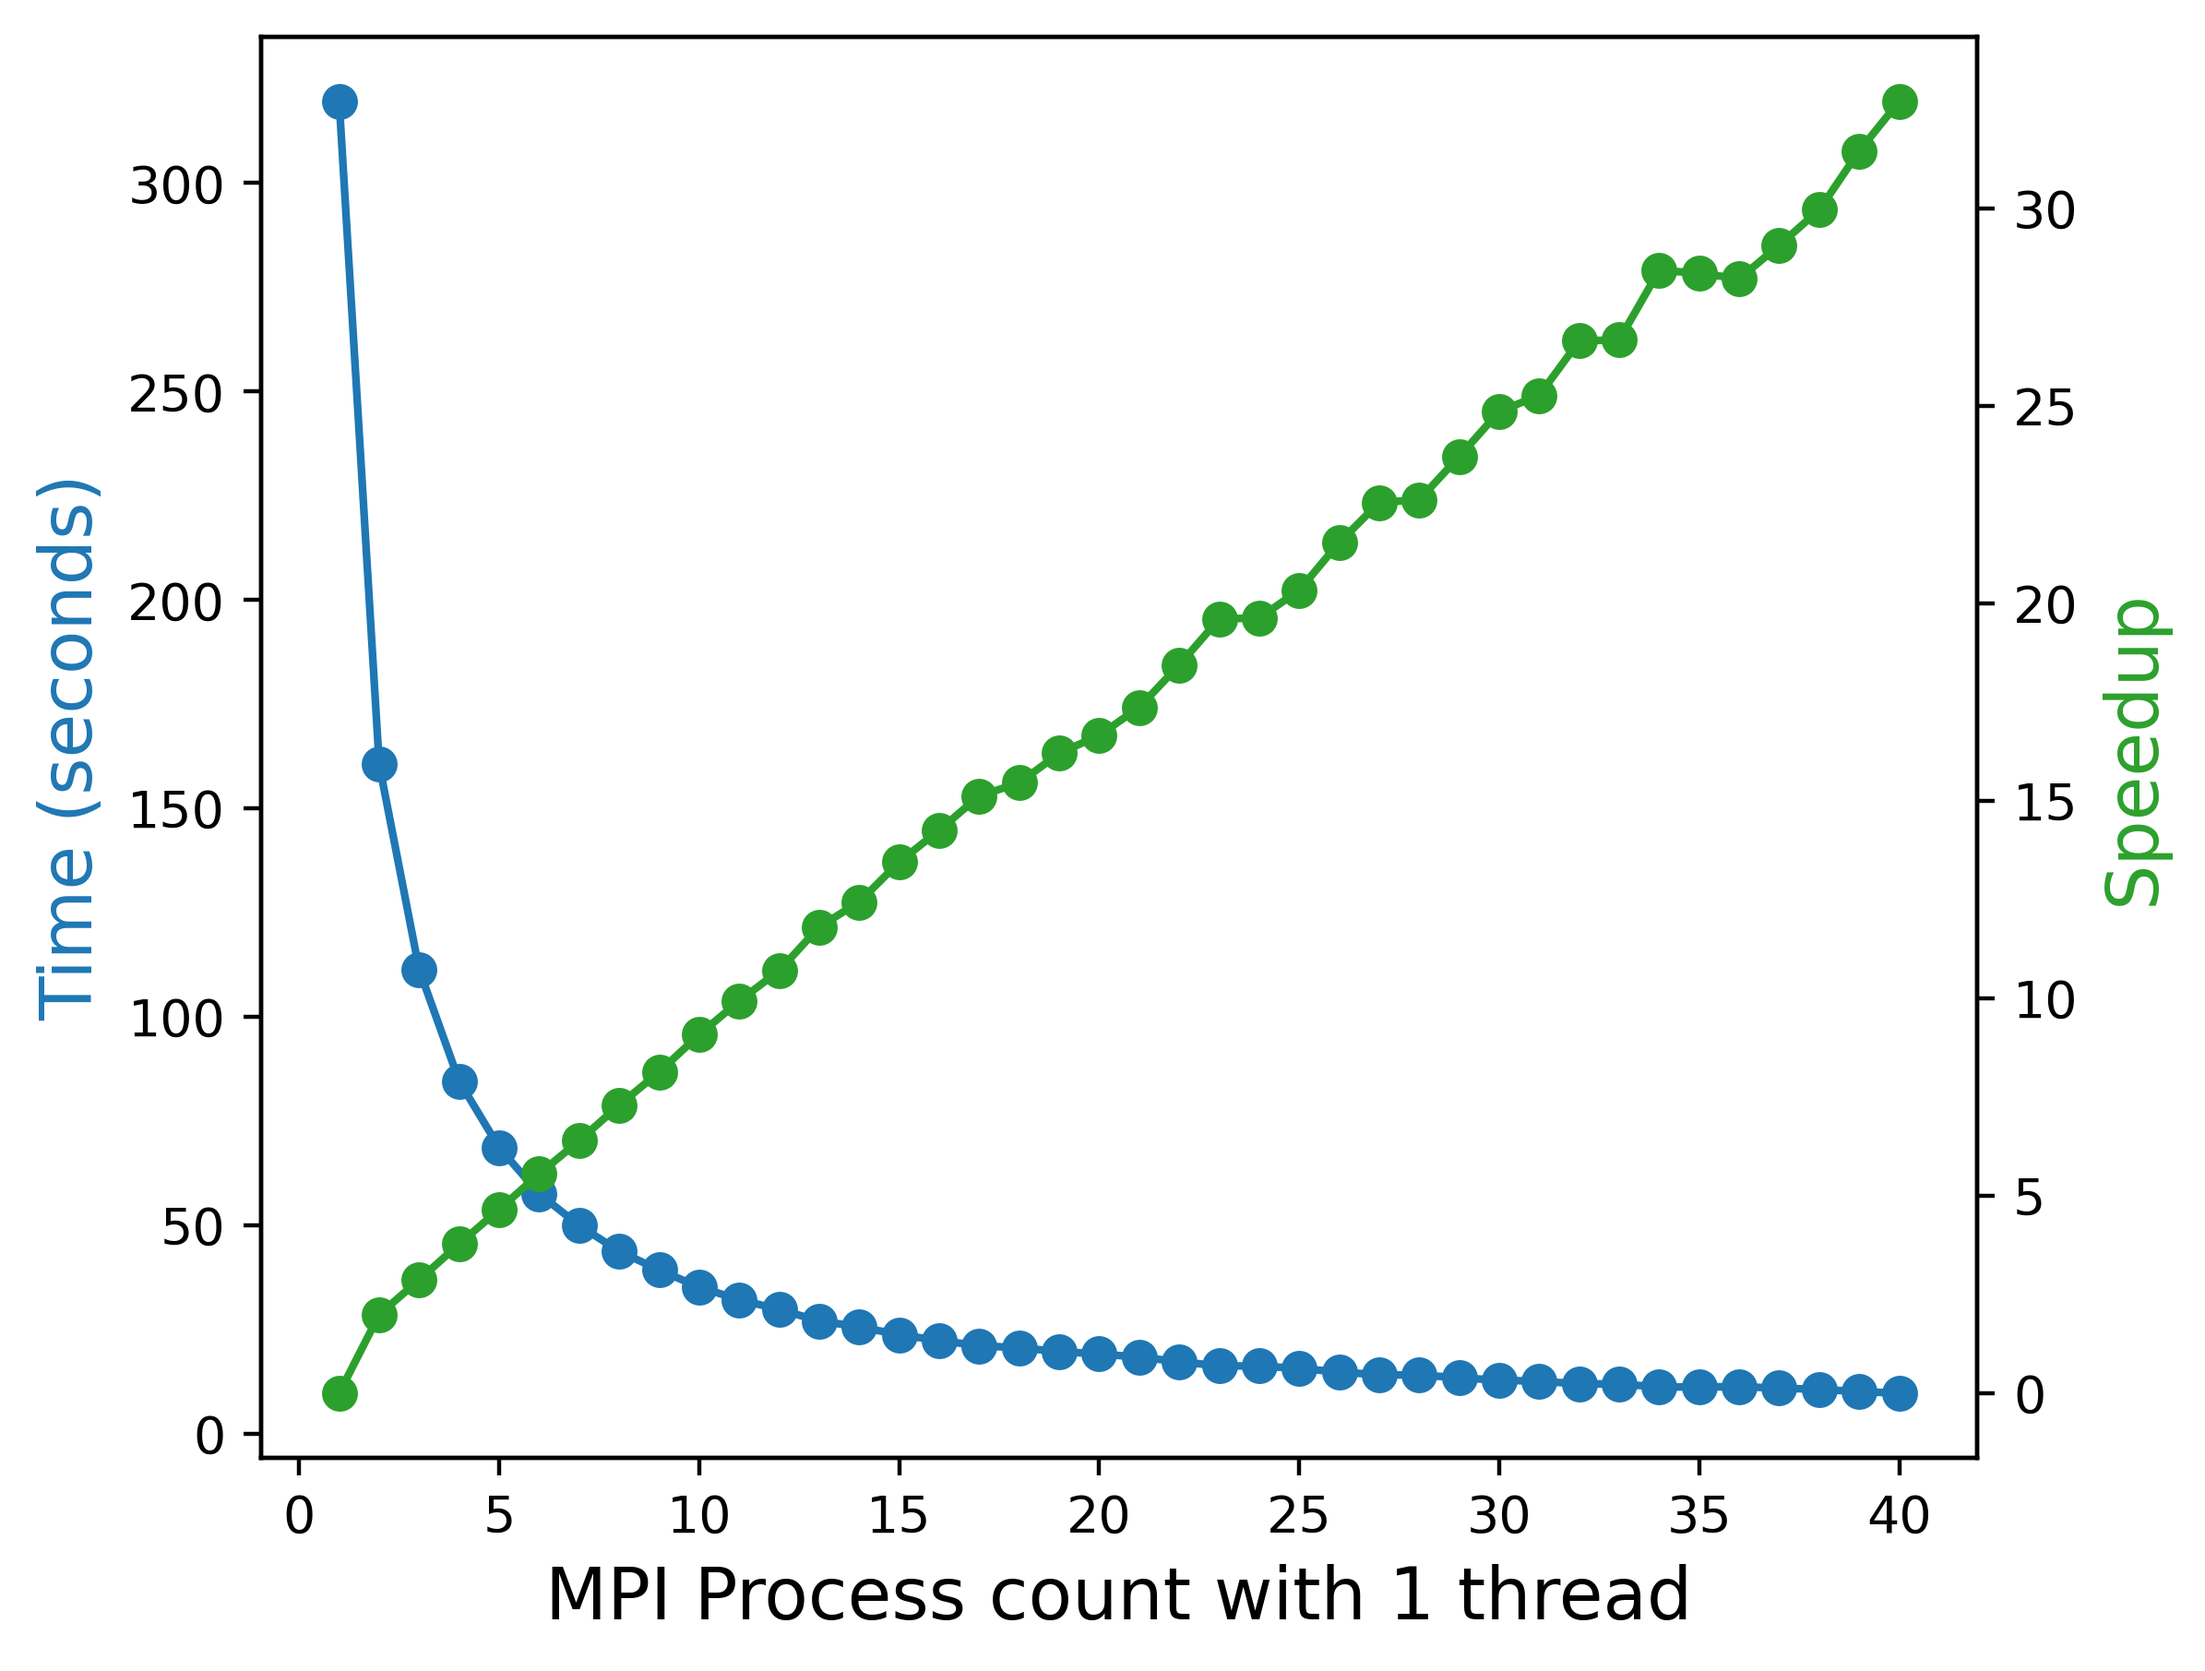
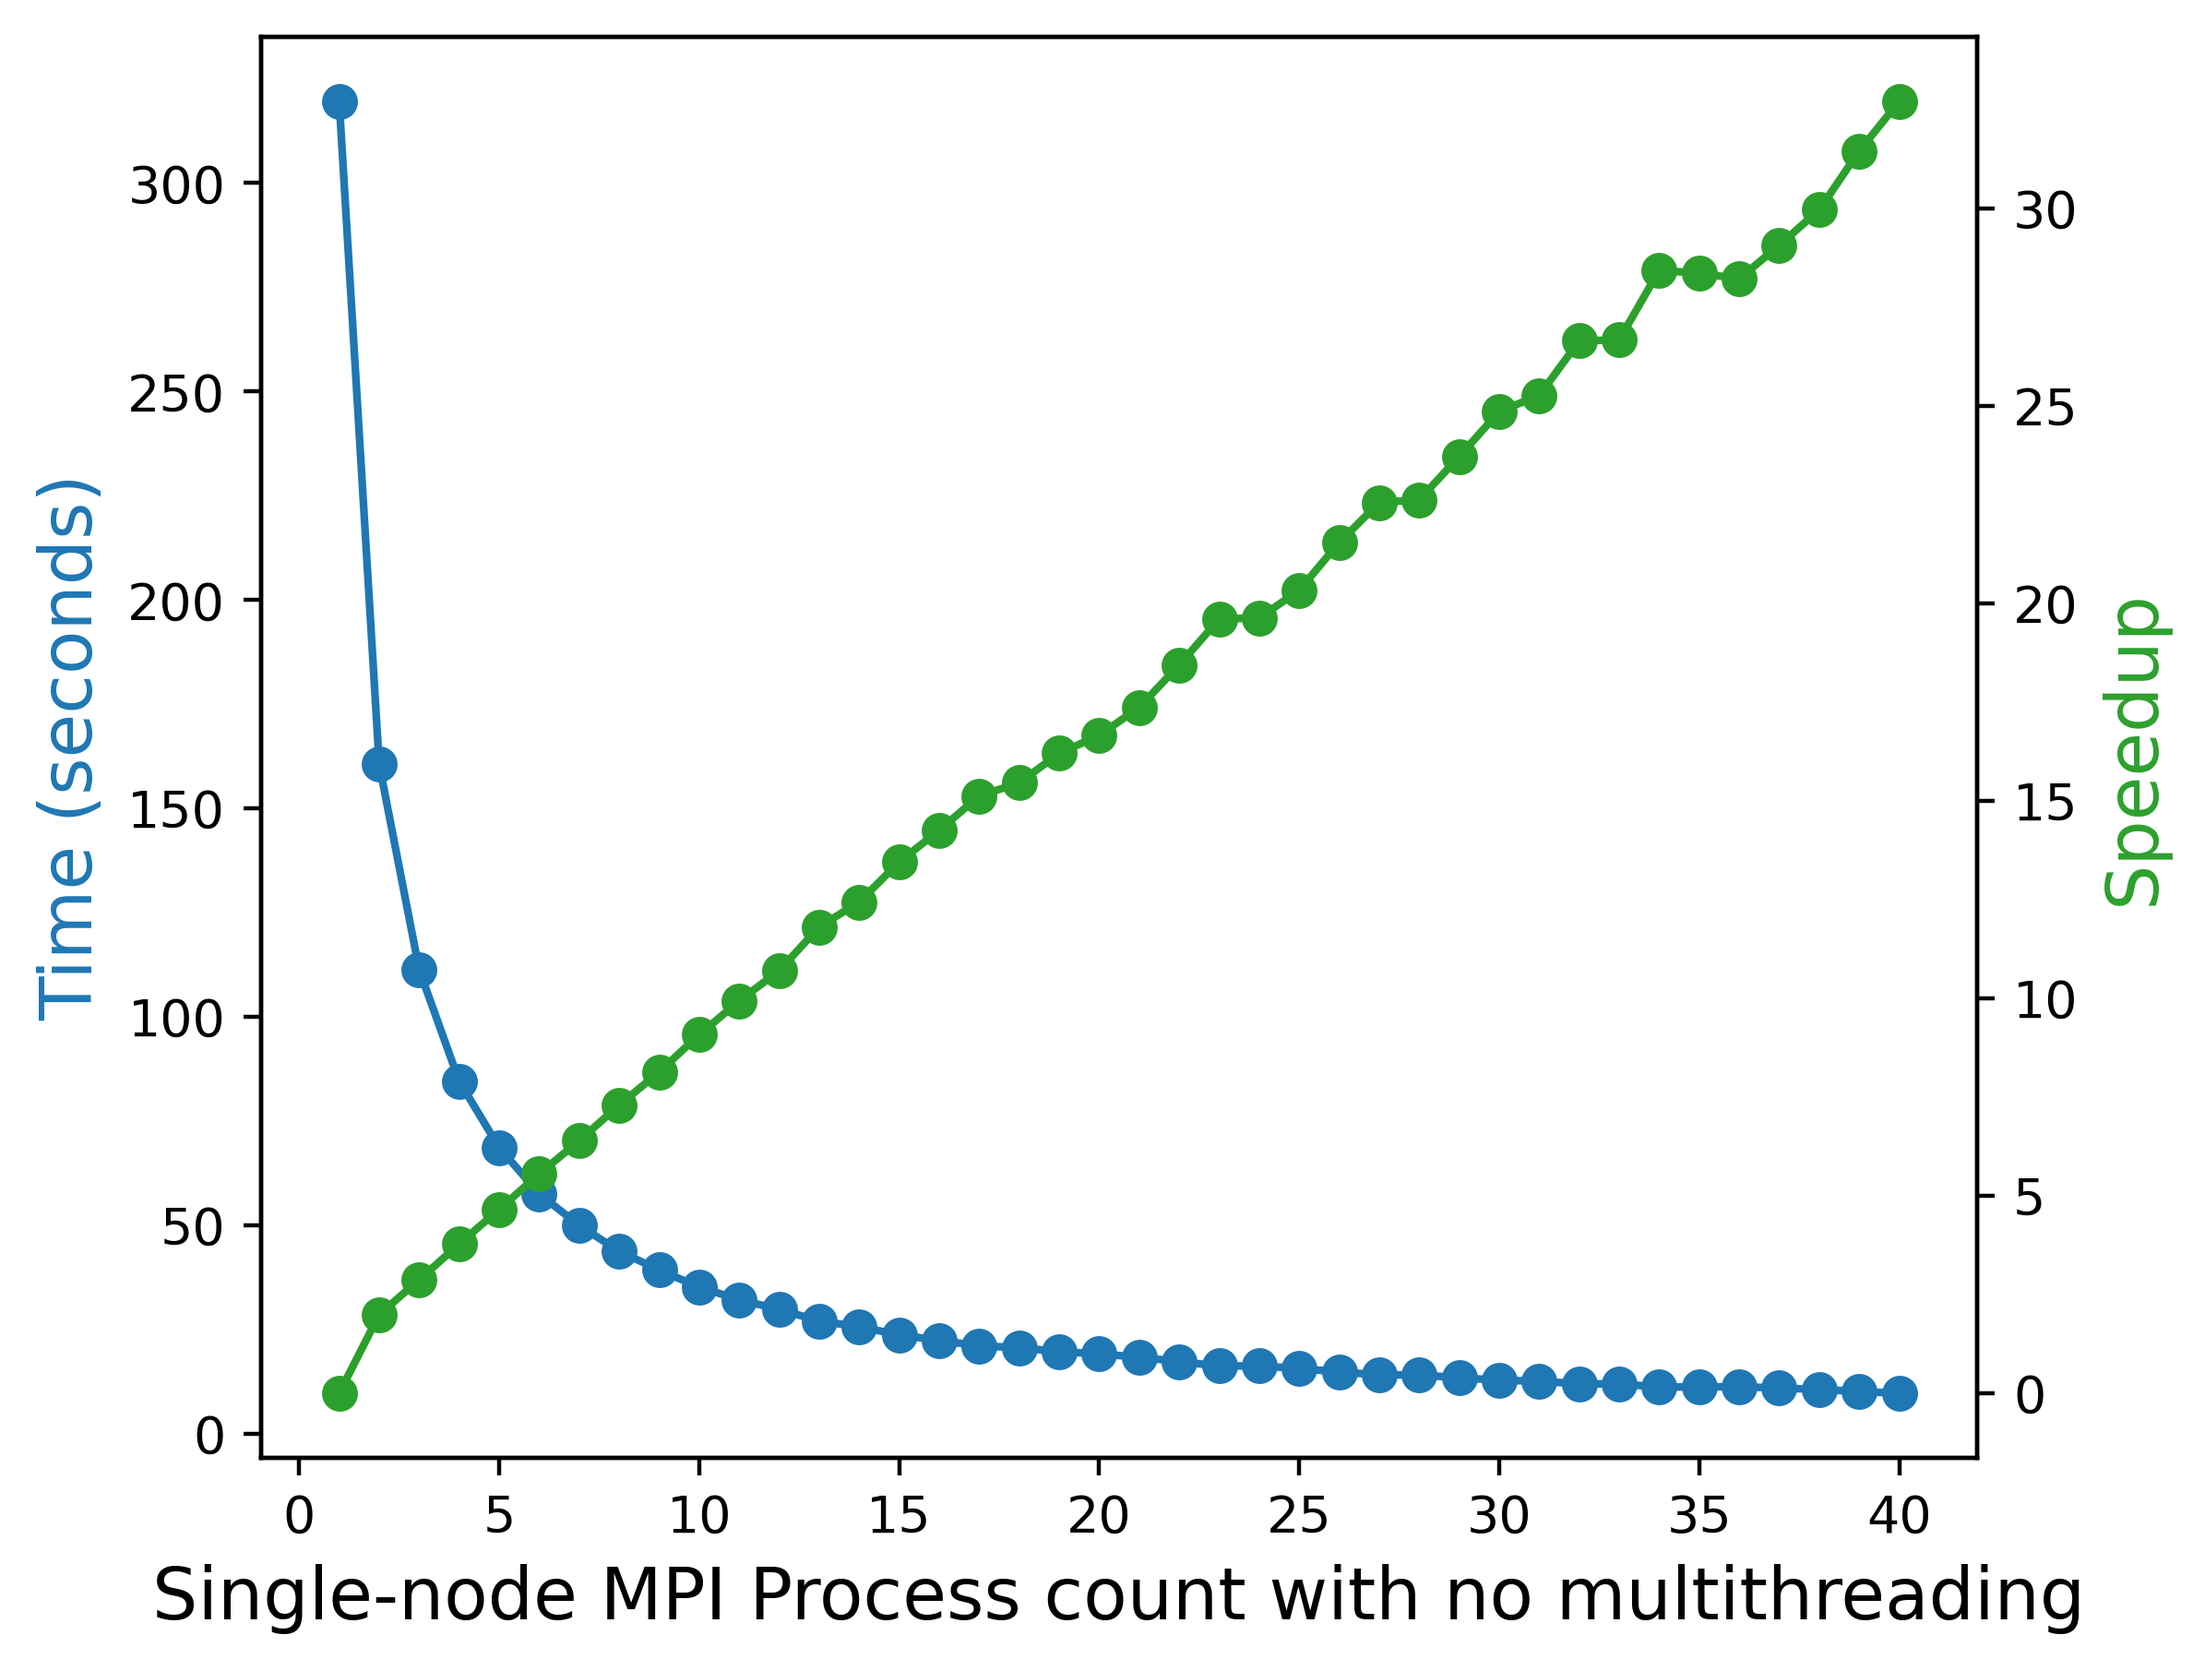
one more graph fix

Changed region(s): [[0.0619, 0.9277, 0.9598, 0.9895]]

diff --git a/scripts/graph.py b/scripts/graph.py
@@ -44,7 +44,7 @@ with open(file) as f:
         speedup_ahmd.append(first_time/(12 + (first_time-12)/(c)))
 
 #xlabel = 'Nodes with 1 MPI process and 40 OMP threads'
-xlabel = 'MPI Process count with 1 thread'
+xlabel = 'Single-node MPI Process count with no multithreading'
 fig, ax1 = plt.subplots(figsize=(6,5))
 ax2 = ax1.twinx()
 bloo='#1f77b4'
